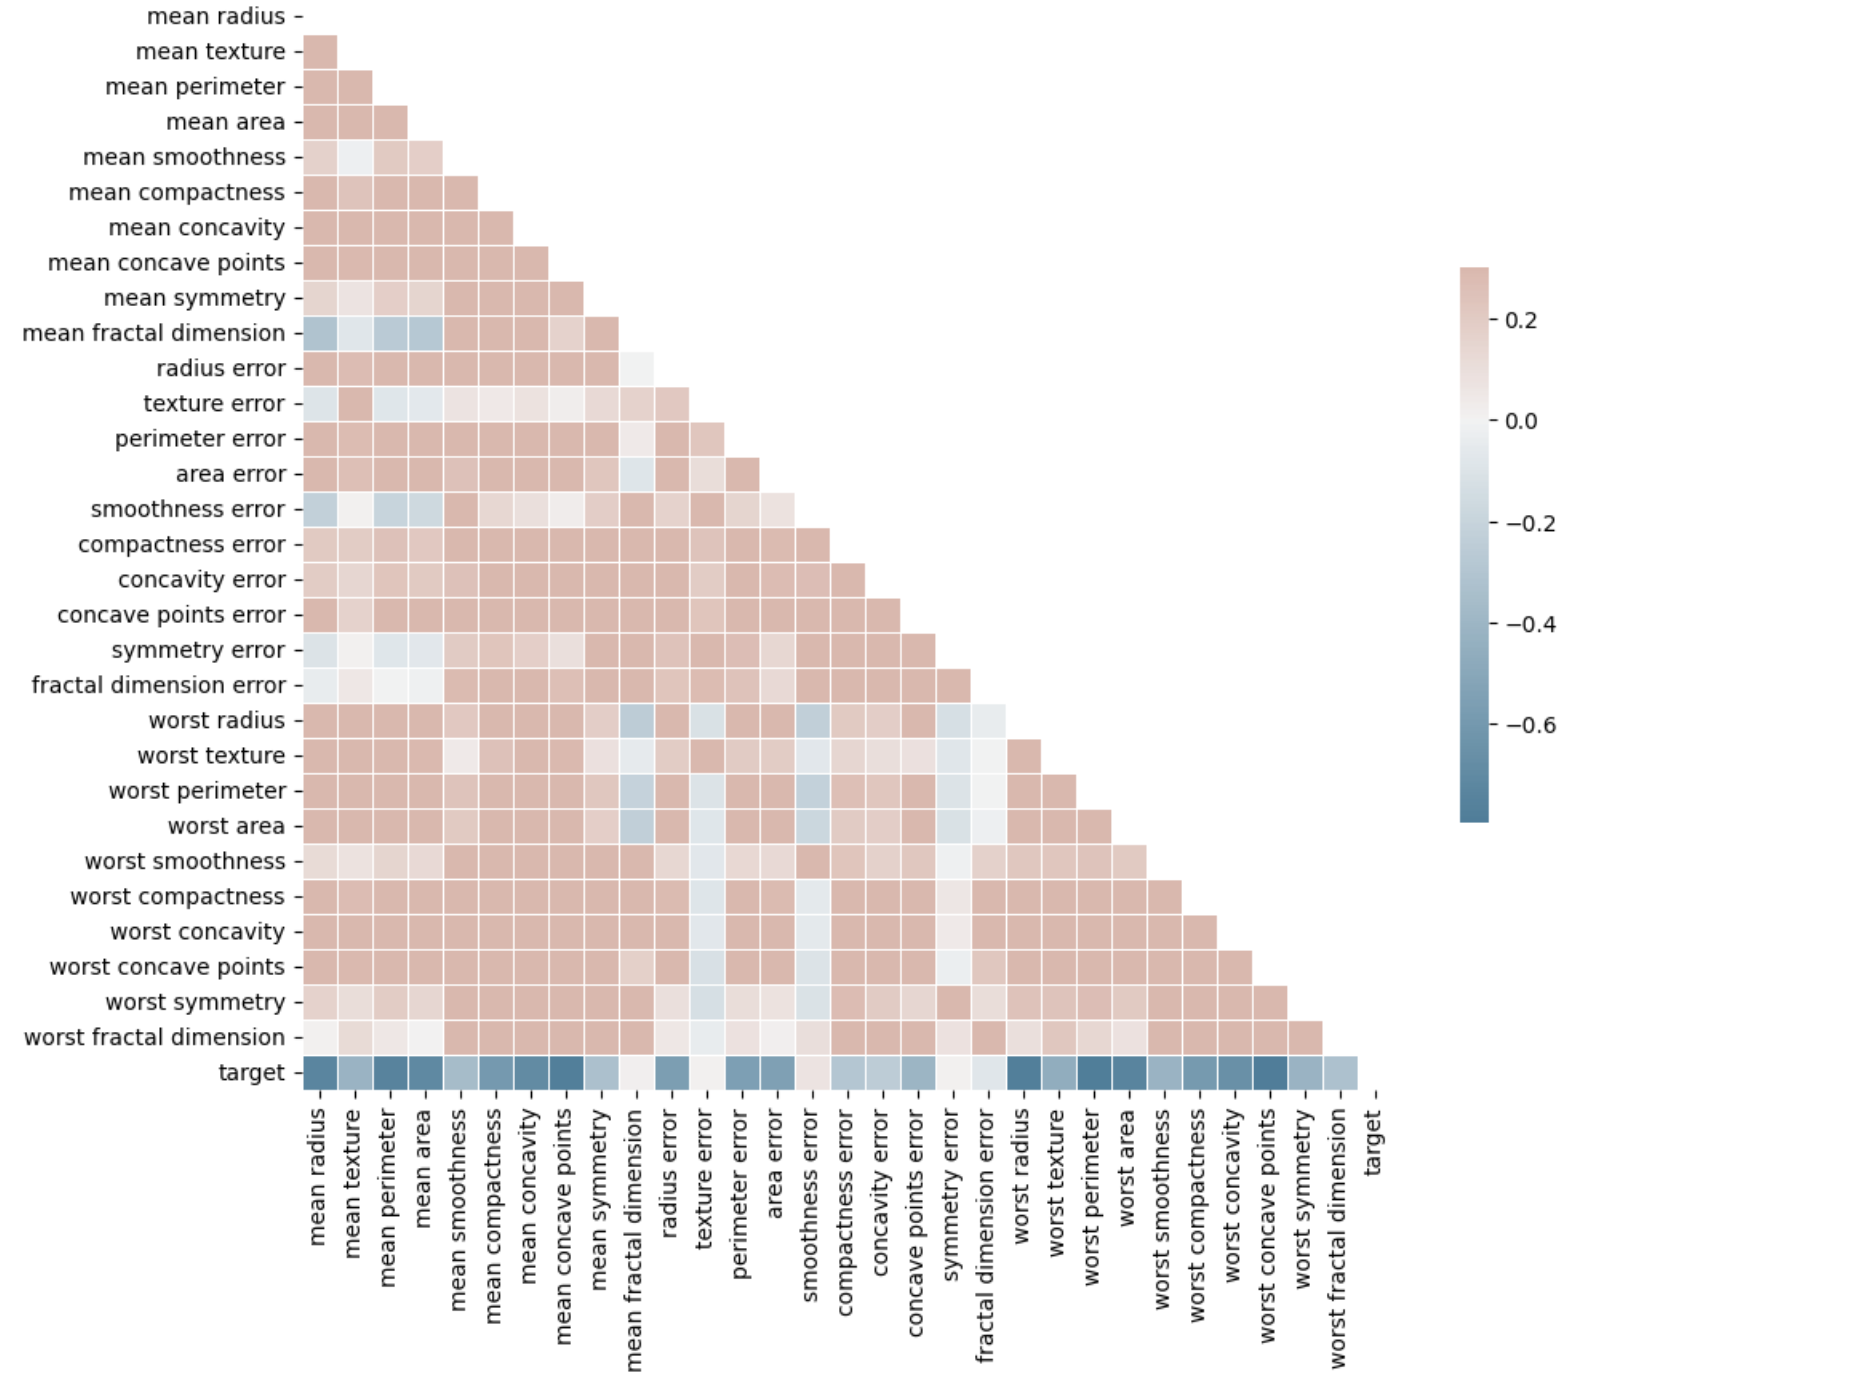
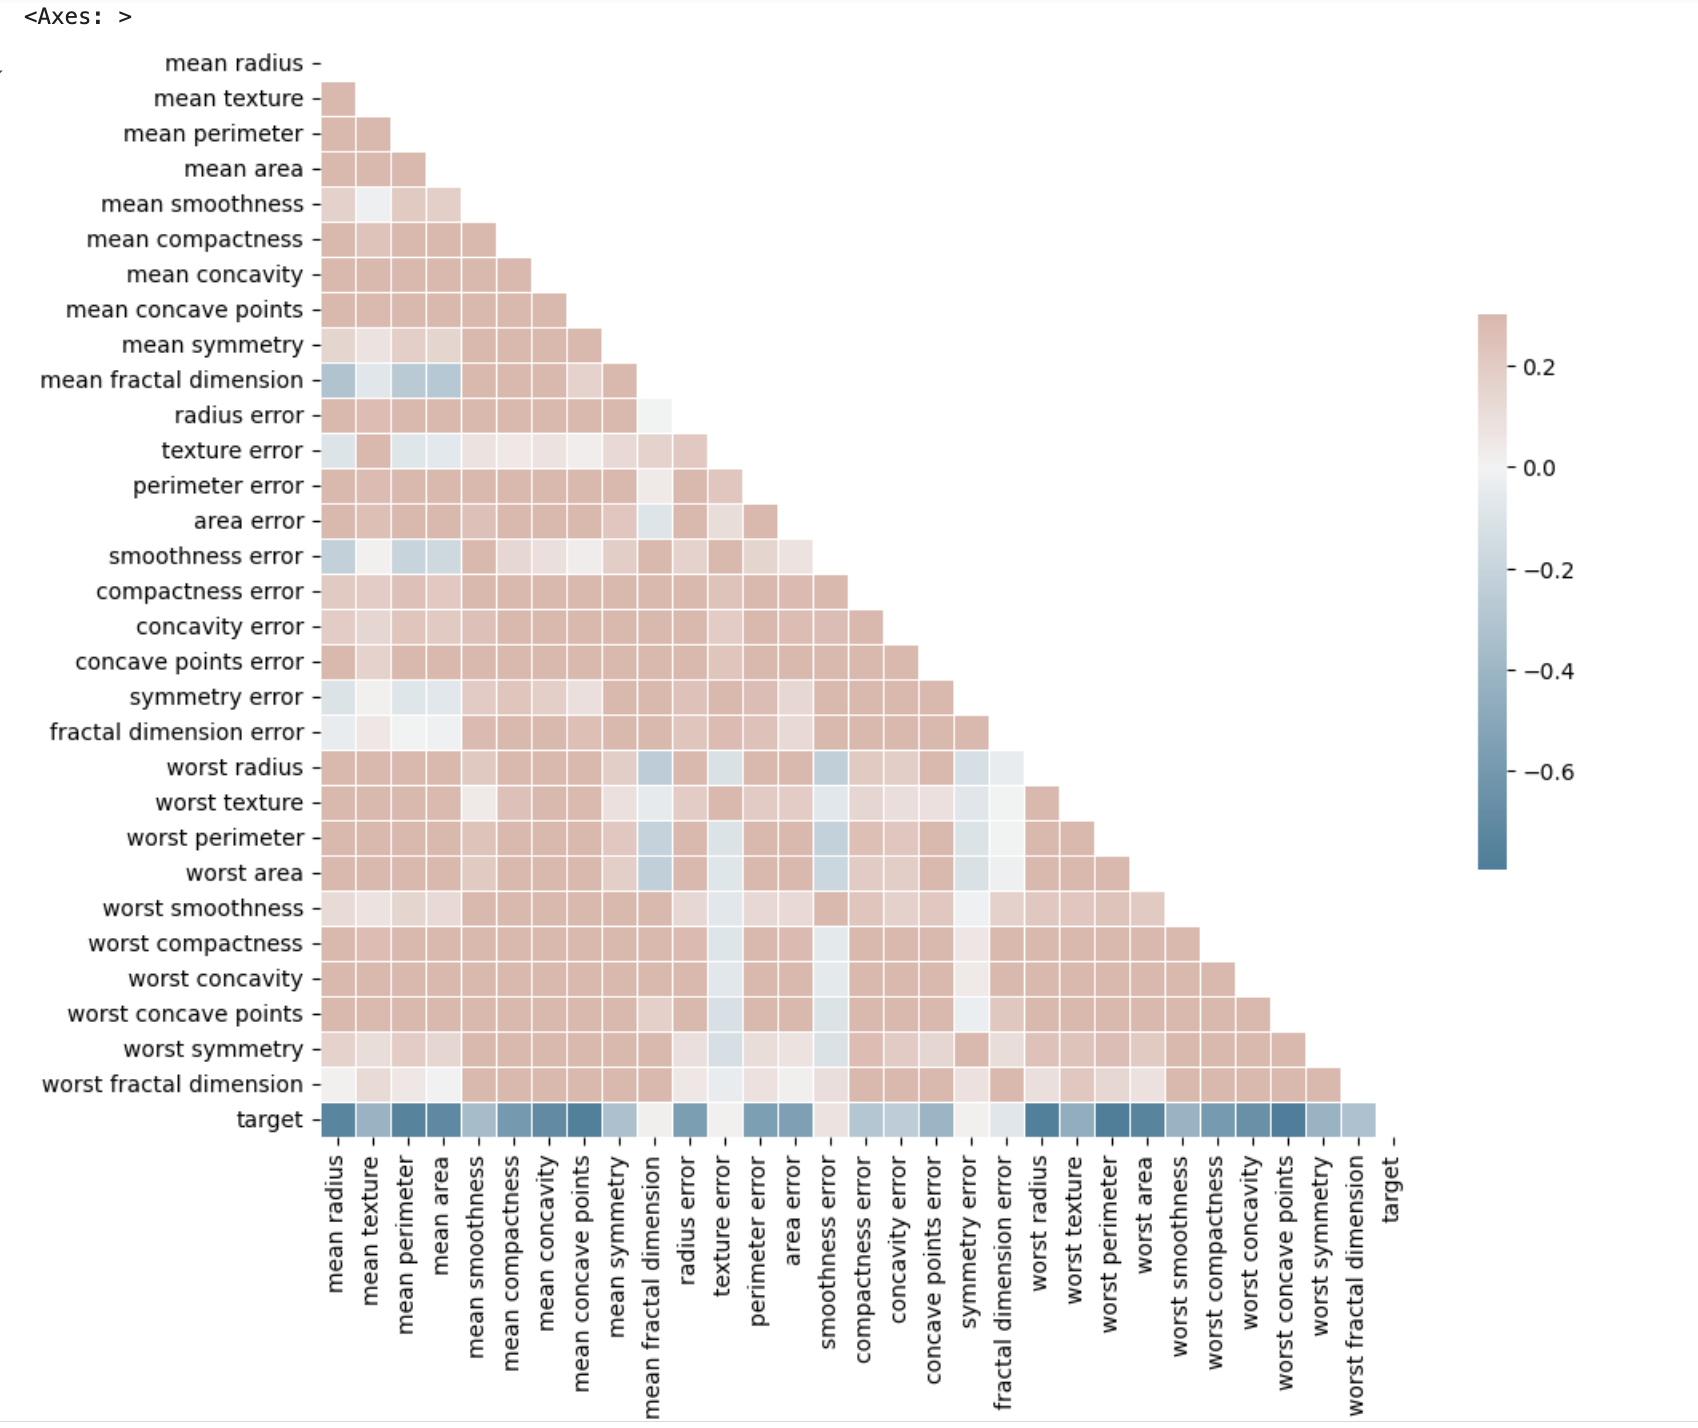
Replace correlation matrix with standard scaled correlation matrix

Changed region(s): [[0.0, 0.0, 0.8428, 1.0], [0.7803, 0.1856, 0.9364, 0.6187]]

diff --git a/README.md b/README.md
@@ -30,8 +30,8 @@ The "kitchen sink" GridSearch will take considerably longer with a larger datase
 The breast cancer dataset is split into 60% training data and 40% testing data
 Data is then standardized using the StandardScaler library and GridSearchCV is used to find the best combination of hyperparameters for the Scikit-learn MLP classifier in a "kitchen sink" approach to finding the model that produces the best f1 score.
 
-## Hyperparameters
-
+### Hyperparameters
+Grid search will check various combinations of activations, solvers, learning_rates
 ```
         param_grid = {
         "activation":['identity', 'logistic', 'tanh', 'relu'],
